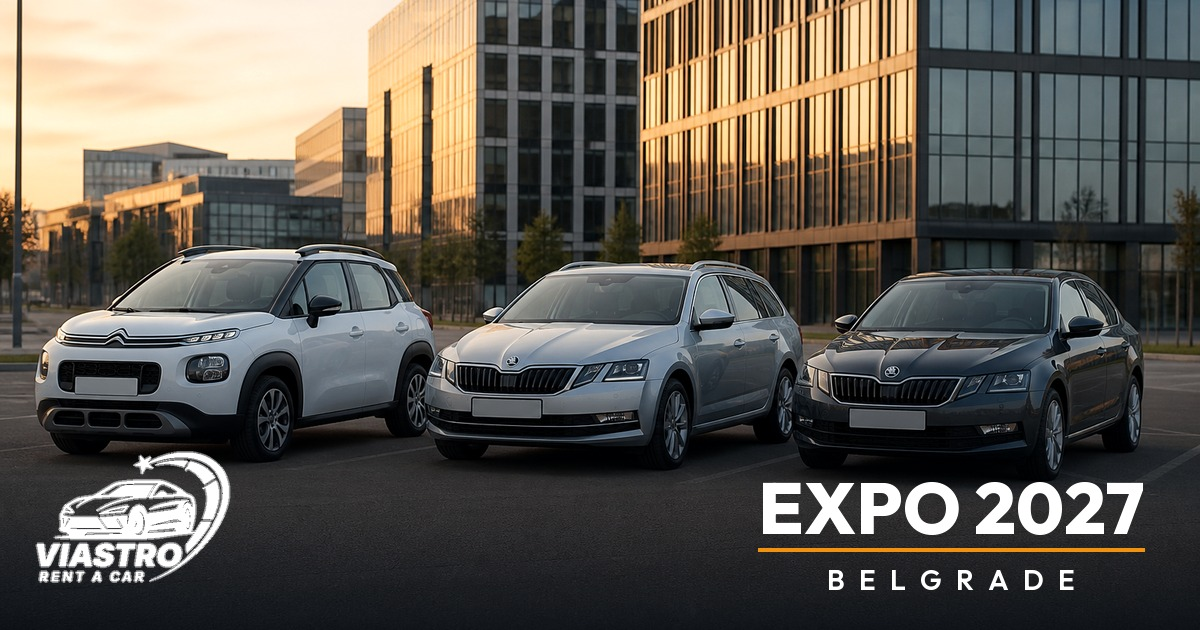
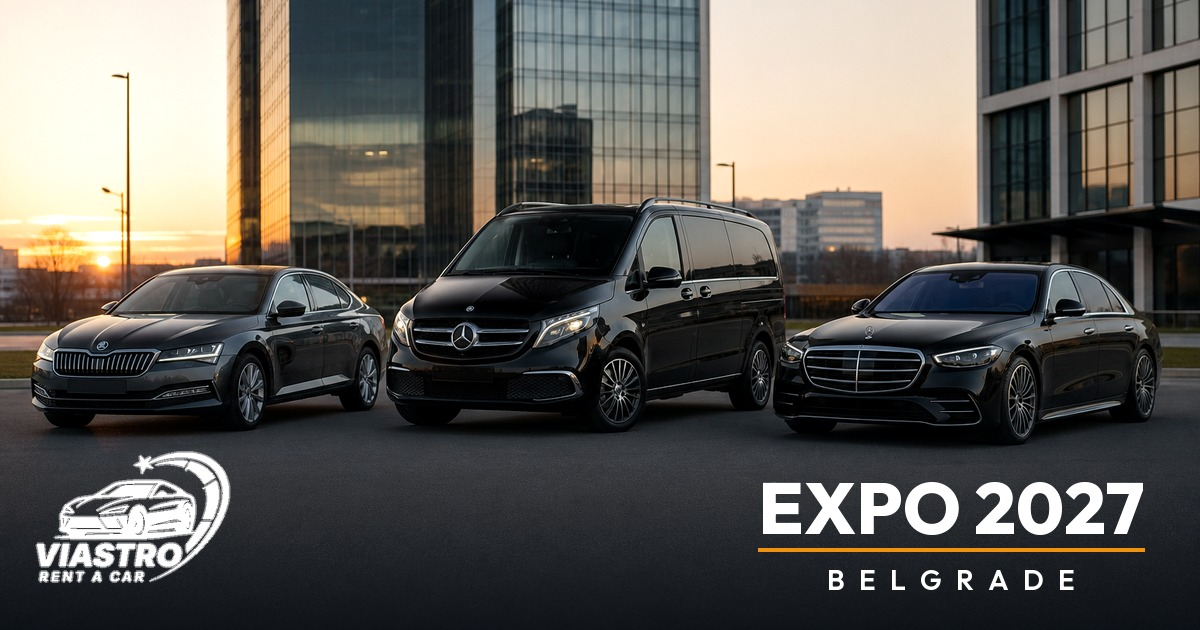
Add chauffeur service and premium cars on the Expo page.

diff --git a/app/locales/ru.ts b/app/locales/ru.ts
@@ -314,6 +314,7 @@ export const ru: BaseLocale = {
       "Получение в аэропорту Белграда (BEG)",
       "Доставка авто в Белграде и Сурчине",
       "Долгосрочная аренда для экспонентов",
+      "Аренда с водителем",
       "Поддержка на сербском, английском и русском",
       "Счета для компаний",
     ],
@@ -342,6 +343,11 @@ export const ru: BaseLocale = {
         title: "Доставка авто в Белграде и Сурчине",
         description:
           "Останавливаетесь в отеле в Белграде или апартаментах рядом с выставкой? Доставим автомобиль по вашему адресу в Белграде или Сурчине, чтобы аренда началась без изменения ваших планов.",
+      },
+      {
+        title: "Аренда с водителем",
+        description:
+          "Не хотите садиться за руль? Viastro предлагает услугу с профессиональным водителем - трансфер из аэропорта, поездки на выставку, в отель и на встречи, а также перевозка делегаций во время EXPO 2027. Согласовывается заранее, с понятным предложением.",
       },
       {
         title: "Долгосрочная аренда для экспонентов",
@@ -435,7 +441,7 @@ export const ru: BaseLocale = {
       {
         title: "Деловые делегации",
         description:
-          "Комфортные автомобили, поддержка на трёх языках и счета для компаний делают Viastro практичным выбором для официальных делегаций и корпоративных гостей EXPO 2027.",
+          "Комфортные автомобили, аренда с водителем, поддержка на трёх языках и счета для компаний делают Viastro практичным выбором для официальных делегаций и корпоративных гостей EXPO 2027.",
       },
       {
         title: "Иностранные гости",
@@ -456,7 +462,12 @@ export const ru: BaseLocale = {
       {
         question: "Где найти expo rent a car в Белграде?",
         answer:
-          "Viastro предлагает expo rent a car в Белграде на EXPO 2027: получение в аэропорту Никола Тесла, доставка авто в Сурчине и Белграде, а также краткосрочная и долгосрочная аренда для посетителей и экспонентов. Бронирование можно начать онлайн или позвонить нам.",
+          "Viastro предлагает expo rent a car в Белграде на EXPO 2027: получение в аэропорту Никола Тесла, доставка авто в Сурчине и Белграде, аренда с водителем, а также краткосрочная и долгосрочная аренда для посетителей и экспонентов. Бронирование можно начать онлайн или позвонить нам.",
+      },
+      {
+        question: "Предлагаете ли аренду с водителем?",
+        answer:
+          "Да. Помимо обычной аренды Viastro предлагает услугу с водителем для гостей EXPO 2027 - трансферы из аэропорта, поездки на выставку и в отель, а также перевозку делегаций. Укажите в заявке, что нужен водитель, и мы подготовим предложение.",
       },
       {
         question: "Можно ли получить автомобиль в аэропорту для EXPO 2027?",
@@ -512,7 +523,7 @@ export const ru: BaseLocale = {
     ],
     ctaTitle: "Нужен автомобиль на EXPO 2027?",
     ctaText:
-      "Отправьте необязательную заявку с датами и желаемым автомобилем. Быстро ответим понятным предложением - получение в аэропорту, доставка в Белграде и Сурчине, краткосрочная и долгосрочная аренда.",
+      "Отправьте необязательную заявку с датами и желаемым автомобилем. Быстро ответим понятным предложением - получение в аэропорту, доставка в Белграде и Сурчине, аренда с водителем, краткосрочная и долгосрочная аренда.",
     ctaPrimary: "Забронировать авто",
     ctaSecondary: "Связаться с нами",
     relatedTitle: "Связанные услуги аренды авто на EXPO 2027",
@@ -609,7 +620,7 @@ export const ru: BaseLocale = {
     "долгосрочная аренда авто, операционный лизинг Белград, аренда авто для бизнеса, автопарк в аренду",
   seoExpoTitle: "Expo Rent a Car Белград 2027 | Viastro",
   seoExpoDescription:
-    "Expo rent a car Белград 2027 - арендуйте автомобиль на EXPO. Встреча в аэропорту Никола Тесла, доставка в Сурчине, долгосрочная аренда для экспонентов. Бронируйте заранее.",
+    "Expo rent a car Белград 2027 - арендуйте автомобиль на EXPO. Встреча в аэропорту Никола Тесла, доставка в Сурчине, аренда с водителем и долгосрочная аренда для экспонентов. Бронируйте заранее.",
   seoExpoKeywords:
-    "expo rent a car, экспо аренда авто белград, expo 2027 белград аренда авто, аренда машины экспо белград, аренда авто аэропорт экспо, expo 2027 rent a car, viastro expo",
+    "expo rent a car, экспо аренда авто белград, expo 2027 белград аренда авто, аренда машины экспо белград, аренда авто аэропорт экспо, аренда авто с водителем белград, expo 2027 rent a car, viastro expo",
 };

diff --git a/app/locales/sr.ts b/app/locales/sr.ts
@@ -308,6 +308,7 @@ export const sr: BaseLocale = {
       "Preuzimanje na aerodromu Nikola Tesla (BEG)",
       "Dostava vozila u Beogradu i Surčinu",
       "Dugoročni najam za izlagače",
+      "Vožnja sa vozačem",
       "Podrška na srpskom, engleskom i ruskom",
       "Fakturisanje za firme",
     ],
@@ -336,6 +337,11 @@ export const sr: BaseLocale = {
         title: "Dostava vozila u Beogradu i Surčinu",
         description:
           "Boravite u hotelu u Beogradu ili apartmanu blizu sajma? Dostavljamo vozilo na vašu adresu u Beogradu ili Surčinu, tako da najam počne bez izmene vaših planova.",
+      },
+      {
+        title: "Vožnja sa vozačem",
+        description:
+          "Ne želite da vozite? Viastro nudi uslugu sa profesionalnim vozačem - transfer sa aerodroma, vožnje do sajma, hotela i sastanaka, kao i prevoz delegacija tokom EXPO 2027. Dogovara se unapred, uz jasnu ponudu.",
       },
       {
         title: "Dugoročni najam za izlagače",
@@ -429,7 +435,7 @@ export const sr: BaseLocale = {
       {
         title: "Poslovne delegacije",
         description:
-          "Udobna vozila, podrška na tri jezika i fakturisanje firmama čine Viastro praktičnim izborom za zvanične delegacije i korporativne goste EXPO 2027.",
+          "Udobna vozila, vožnja sa vozačem, podrška na tri jezika i fakturisanje firmama čine Viastro praktičnim izborom za zvanične delegacije i korporativne goste EXPO 2027.",
       },
       {
         title: "Međunarodni gosti",
@@ -450,7 +456,12 @@ export const sr: BaseLocale = {
       {
         question: "Gde da nađem expo rent a car u Beogradu?",
         answer:
-          "Viastro nudi expo rent a car u Beogradu za EXPO 2027: preuzimanje na aerodromu Nikola Tesla, dostava vozila u Surčinu i Beogradu, kao i kratkoročni i dugoročni najam za posetioce i izlagače. Rezervaciju možete započeti online ili nas pozvati.",
+          "Viastro nudi expo rent a car u Beogradu za EXPO 2027: preuzimanje na aerodromu Nikola Tesla, dostava vozila u Surčinu i Beogradu, vožnja sa vozačem, kao i kratkoročni i dugoročni najam za posetioce i izlagače. Rezervaciju možete započeti online ili nas pozvati.",
+      },
+      {
+        question: "Nudite li vožnju sa vozačem?",
+        answer:
+          "Da. Pored klasičnog najma, Viastro nudi vožnju sa vozačem za goste EXPO 2027 - transfere sa aerodroma, vožnje do sajma i hotela i prevoz delegacija. Navedite u rezervaciji da vam treba vozač i pripremićemo ponudu.",
       },
       {
         question: "Mogu li da preuzmem vozilo na aerodromu za EXPO 2027?",
@@ -506,7 +517,7 @@ export const sr: BaseLocale = {
     ],
     ctaTitle: "Trebate vozilo za EXPO 2027?",
     ctaText:
-      "Pošaljite neobavezujuću rezervaciju sa datumima i željenim vozilom. Brzo odgovaramo jasnom ponudom - preuzimanje na aerodromu, dostava u Beogradu i Surčinu, kratkoročni i dugoročni najam.",
+      "Pošaljite neobavezujuću rezervaciju sa datumima i željenim vozilom. Brzo odgovaramo jasnom ponudom - preuzimanje na aerodromu, dostava u Beogradu i Surčinu, vožnja sa vozačem, kratkoročni i dugoročni najam.",
     ctaPrimary: "Rezervišite vozilo",
     ctaSecondary: "Kontaktirajte nas",
     relatedTitle: "Povezane usluge rent a car za EXPO 2027",
@@ -605,7 +616,7 @@ export const sr: BaseLocale = {
     "dugoročni najam vozila, dugoročni najam automobila, dugoročni najam za firme, renta vozila za firme, renta vozila za pravna lica, najam vozila za pravna lica, poslovni najam vozila, operativni rent Beograd, operativni lizing vozila, dugoročni rent a car Beograd, vozni park za firme, iznajmljivanje automobila na duži period",
   seoExpoTitle: "Expo Rent a Car Beograd 2027 | Viastro",
   seoExpoDescription:
-    "Expo rent a car Beograd 2027 - iznajmite automobil za EXPO. Renta car sa aerodroma Nikola Tesla, dostava u Surčinu, dugoročni najam za izlagače. Rezervišite na vreme.",
+    "Expo rent a car Beograd 2027 - iznajmite automobil za EXPO. Renta car sa aerodroma Nikola Tesla, dostava u Surčinu, vožnja sa vozačem i dugoročni najam za izlagače. Rezervišite na vreme.",
   seoExpoKeywords:
-    "expo renta car, expo rent a car, expo rent a car beograd, expo 2027 rent a car, renta car expo, expo 2027 beograd rent a car, iznajmljivanje automobila expo beograd, rent a car expo 2027, expo 2027 surčin, rent a car aerodrom expo, rent a car nikola tesla expo, viastro expo",
+    "expo renta car, expo rent a car, expo rent a car beograd, expo 2027 rent a car, renta car expo, expo 2027 beograd rent a car, iznajmljivanje automobila expo beograd, rent a car expo 2027, expo 2027 surčin, rent a car aerodrom expo, rent a car nikola tesla expo, vožnja sa vozačem beograd, viastro expo",
 };

diff --git a/app/locales/en.ts b/app/locales/en.ts
@@ -308,6 +308,7 @@ export const en: BaseLocale = {
       "Pick-up at Belgrade Airport (BEG)",
       "Vehicle delivery in Belgrade and Surcin",
       "Long-term rental for exhibitors",
+      "Chauffeur service",
       "Support in Serbian, English and Russian",
       "Invoicing for companies",
     ],
@@ -336,6 +337,11 @@ export const en: BaseLocale = {
         title: "Vehicle delivery in Belgrade and Surcin",
         description:
           "Staying at a hotel in Belgrade or an apartment near the EXPO site? We can deliver the vehicle to your address in Belgrade or Surcin, so the rental starts without changing your plans.",
+      },
+      {
+        title: "Chauffeur service",
+        description:
+          "Prefer not to drive? Viastro offers a professional chauffeur - airport transfers, rides to the fair, hotels and meetings, and transport for delegations during EXPO 2027. Arranged in advance, with a clear offer.",
       },
       {
         title: "Long-term rental for exhibitors",
@@ -429,7 +435,7 @@ export const en: BaseLocale = {
       {
         title: "Business delegations",
         description:
-          "Comfortable vehicles, support in three languages and company invoicing make Viastro a practical choice for official delegations and corporate guests at EXPO 2027.",
+          "Comfortable vehicles, chauffeur service, support in three languages and company invoicing make Viastro a practical choice for official delegations and corporate guests at EXPO 2027.",
       },
       {
         title: "International guests",
@@ -450,7 +456,12 @@ export const en: BaseLocale = {
       {
         question: "Where can I find expo rent a car in Belgrade?",
         answer:
-          "Viastro offers expo rent a car in Belgrade for EXPO 2027: pick-up at Nikola Tesla Airport, vehicle delivery in Surcin and Belgrade, plus short-term and long-term rental for visitors and exhibitors. You can start a booking online or call us.",
+          "Viastro offers expo rent a car in Belgrade for EXPO 2027: pick-up at Nikola Tesla Airport, vehicle delivery in Surcin and Belgrade, chauffeur service, plus short-term and long-term rental for visitors and exhibitors. You can start a booking online or call us.",
+      },
+      {
+        question: "Do you offer a chauffeur service?",
+        answer:
+          "Yes. In addition to self-drive rental, Viastro offers a chauffeur service for EXPO 2027 guests - airport transfers, rides to the fair and hotels, and transport for delegations. Mention in your booking that you need a driver and we will prepare an offer.",
       },
       {
         question: "Can I pick up a vehicle at the airport for EXPO 2027?",
@@ -506,7 +517,7 @@ export const en: BaseLocale = {
     ],
     ctaTitle: "Need a vehicle for EXPO 2027?",
     ctaText:
-      "Send a non-binding booking with your dates and preferred vehicle. We respond quickly with a clear offer - airport pick-up, delivery in Belgrade and Surcin, short-term and long-term rentals.",
+      "Send a non-binding booking with your dates and preferred vehicle. We respond quickly with a clear offer - airport pick-up, delivery in Belgrade and Surcin, chauffeur service, short-term and long-term rentals.",
     ctaPrimary: "Book a vehicle",
     ctaSecondary: "Contact us",
     relatedTitle: "Related rent a car services for EXPO 2027",
@@ -601,7 +612,7 @@ export const en: BaseLocale = {
     "long-term car rental, operational leasing Belgrade, business car hire, fleet rental",
   seoExpoTitle: "Expo Rent a Car Belgrade 2027 | Viastro",
   seoExpoDescription:
-    "Expo rent a car Belgrade 2027 - hire a car for EXPO. Airport pick-up at Nikola Tesla, delivery in Surcin, long-term rental for exhibitors. Book early.",
+    "Expo rent a car Belgrade 2027 - hire a car for EXPO. Airport pick-up at Nikola Tesla, delivery in Surcin, chauffeur service and long-term rental for exhibitors. Book early.",
   seoExpoKeywords:
-    "expo rent a car, expo rent a car belgrade, expo 2027 rent a car, rent a car expo, expo 2027 belgrade rent a car, expo belgrade car rental, belgrade airport expo car rental, expo 2027 surcin, viastro expo",
+    "expo rent a car, expo rent a car belgrade, expo 2027 rent a car, rent a car expo, expo 2027 belgrade rent a car, expo belgrade car rental, belgrade airport expo car rental, expo 2027 surcin, chauffeur service belgrade, viastro expo",
 };

diff --git a/app/components/Expo/ExpoLanding.tsx b/app/components/Expo/ExpoLanding.tsx
@@ -15,6 +15,7 @@ import {
   Receipt,
   ShieldCheck,
   Truck,
+  UserCheck,
   Users,
 } from "lucide-react";
 import type { ExpoLocale } from "@/locales/base-locale";
@@ -37,7 +38,15 @@ type Props = {
   langCode: string;
 };
 
-const serviceIcons = [Plane, Truck, CalendarDays, Languages, Receipt, ShieldCheck];
+const serviceIcons = [
+  Plane,
+  Truck,
+  UserCheck,
+  CalendarDays,
+  Languages,
+  Receipt,
+  ShieldCheck,
+];
 const exhibitorIcons = [CalendarDays, CarFront, Users];
 const audienceIcons = [Globe2, Building2, Users, Languages, MapPin];
 

diff --git a/app/lib/seo.ts b/app/lib/seo.ts
@@ -436,7 +436,7 @@ export function generateExpoServiceSchema(
         iataCode: "BEG",
       },
     ],
-    serviceType: "Car Rental",
+    serviceType: ["Car Rental", "Chauffeur Service"],
     category: "Expo rent a car",
     url: pageUrl,
     availableLanguage: ["sr", "en", "ru"],
